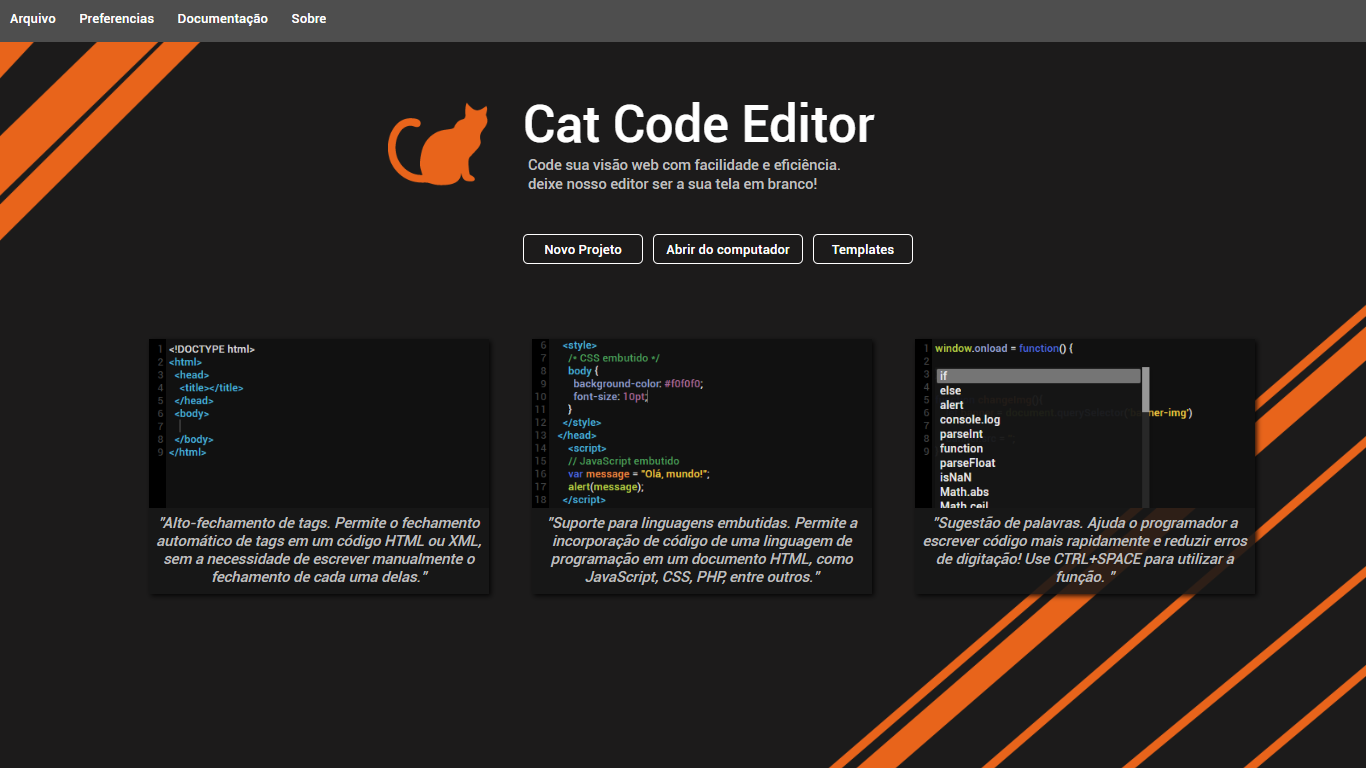
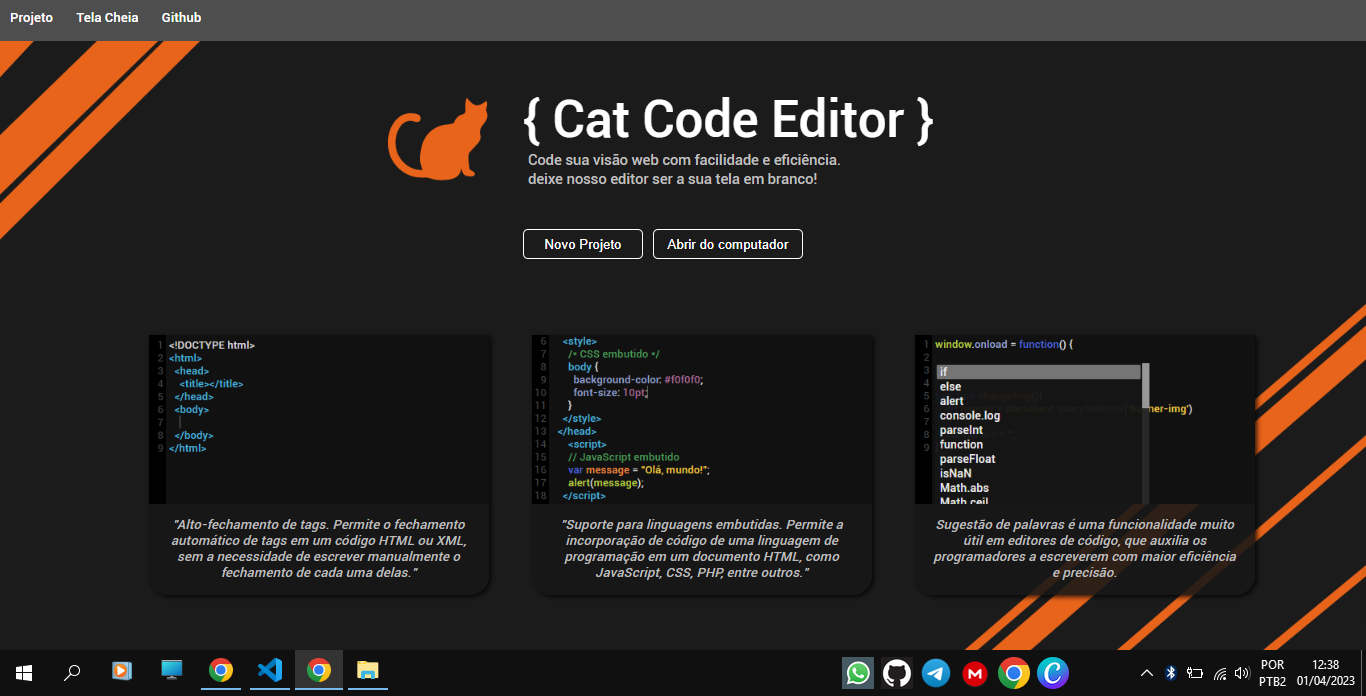
#correção

diff --git a/src/www/editor-web.html b/src/www/editor-web.html
@@ -45,7 +45,7 @@
                 <li><input type="button" value="Apagar Tudo" onclick="apagarTudo()"></li>
             </ul>
         </li>
-        <li><a href="#">Vizualisar</a>
+        <li><a href="#">Visualisar</a>
             <ul>
                 <li><input type="button" value="Visualização Web" onclick="previewWindow()"></li>
                 <li><input type="button" value="Visualização Mobile" onclick="previewIframe()"></li>
@@ -55,26 +55,19 @@
         <li>
             <a onclick="fullscreen()">Tela Cheia</a>
         </li>
-        <li><a href="#">Sobre</a>
-            <ul>
-                <li><a href="#">Versão</a></li>
-                <li><a href="#">Documentação</a></li>
-                <li><a href="#">Criadores</a></li>
-                <li><a href="#">Github</a></li>
-            </ul>
+        <li>
+            <a href="https://github.com/leonelmiguins/cat-code-editor" target="_blank">Github</a>
         </li>
     </ul>
 </nav>
-    <!-- Campo do editor de código-->
-    <div class="conteiner-editor">
-      <!-- <div class="conteiner-arquivos"></div> -->
-      <textarea  id="editor"></textarea> 
-      <iframe id="iframe-prev"></iframe>
-    </div>
-    
+<!-- Campo do editor de código-->
+<div class="conteiner-editor">
+    <!-- <div class="conteiner-arquivos"></div> -->
+    <textarea  id="editor"></textarea> 
+    <iframe id="iframe-prev"></iframe>
+</div> 
     <!-- input file onde o usuario ira escolher so seu sistema um arquivo nos formatos definidos -->
     <input style="display: none;" type="file" id="inputFile" accept=".js, .json, .html, .css">
-    <!-- Scripts -->
     <script src="../js/editor.js"></script>   
 
 <!-- Toast de menssagens do sistema-->
@@ -92,8 +85,8 @@
     <input type="button" value="Copiar Tudo" onclick="copiarTudo()">
     <input type="button" value="Salvar" onclick="salvar()">
     <input type="button" value="Atualizar Visualização" onclick="previewIframe()">
-    <input type="button" value="salvar">
 </div>
+
 <script src="../js/script.js"></script>
 
 </body>

diff --git a/index.html b/index.html
@@ -8,9 +8,6 @@
     <link rel="shortcut icon" href="src/images/gato.png"/>
     <title>Cat Code Editor - Inicio</title>
 </head>
-<header>
-
-</header>
 <body>
 <!-- Barra de navegação -->
 <nav>
@@ -25,13 +22,8 @@
     <li>
         <a onclick="fullscreen()">Tela Cheia</a>
     </li>
-    <li><a href="#">Sobre</a>
-         <ul>
-            <li><input type="button" value="Versão" onclick="version()"></li>
-            <li><a href="#">Documentação</a>
-            <li><a href="#">Criadores</a></li>
-            <li><a href="#">Github</a></li>
-         </ul>
+    <li>
+        <a href="https://github.com/leonelmiguins/cat-code-editor" target="_blank">Github</a>
     </li>
 </ul>
 </nav>
@@ -63,7 +55,7 @@
     <figure>
          <img src="src/images/blank.png" alt="Imagem 1">
         <figcaption>"Alto-fechamento de tags. Permite o fechamento automático de tags em um código HTML ou XML, sem a necessidade de escrever manualmente o fechamento de cada uma delas."</figcaption>
-     </figure>
+    </figure>
     <figure>
         <img src="src/images/blank-2.png" alt="Imagem 2">
         <figcaption>"Suporte para linguagens embutidas. Permite a incorporação de código de uma linguagem de programação em um documento HTML, como JavaScript, CSS, PHP, entre outros."</figcaption>
@@ -87,16 +79,12 @@
 <!-- Mouse Menu -->
 <div id="menu-mouse">
     <ul>
-      <li><a href="#">Opção 1</a></li>
-      <li><a href="#">Opção 2</a></li>
-      <li><a href="#">Opção 3</a></li>
+        <input type="button" value="Novo Projeto" onclick="copiarTudo()">
+        <input type="button" value="abrir do Computador" onclick="salvar()">
+        <input type="button" value="Tela Cheia" onclick="previewIframe()">
     </ul>
 </div>
 
-<!-- Caixa de menssagem -->
-<div id="box-msg">
-
-</div>
 <script src="src/js/script.js"></script>
 
 </body>

diff --git a/src/css/style.css b/src/css/style.css
@@ -1,13 +1,8 @@
-@import url('https://fonts.googleapis.com/css2?family=Poppins:wght@300;400;500;600;700&display=swap');
-
 @font-face {
     font-family: Roboto;
     src: url('../fonts/Roboto-Medium.ttf');
 }
-@font-face {
-    font-family: Chopisc;
-    src: url('../fonts/Chopsic.otf');
-}
+
 @font-face {
     font-family: JetBrains;
     src: url('../fonts/JetBrainsMonoNL-Medium.ttf');
@@ -40,7 +35,7 @@ body{
 /* barra de navegação */
 
 nav {
-    height: 35px;
+    height: 31px;
     font-family: Roboto;
     display: flex;
 }
@@ -90,7 +85,7 @@ nav ul li a{
 
 nav ul li a:hover{
     background-color: rgb(129, 128, 128);
-    height: 22px;
+    height: 21px;
     cursor: pointer;
 }
 
@@ -178,6 +173,7 @@ nav ul ul li a{
 }
 
 /*  SEÇÃO DE CÓDIGO CRIADA POR MANUEL CHAVES */
+
 main {
     margin-top: 20px;
     text-align: center;
@@ -420,21 +416,5 @@ section.sec2{
     border-radius: 2px;
 }
 
-/* box menssage */
-
-#box-msg {
-    display: none;
-    position: absolute;
-    top: 35%;
-    left: 50%;
-    transform: translate(-50%, -50%);
-    background-color: #0c0c0cfd;
-    color: #f4f4f4;
-    width: 200px;
-    height: 200px;
-    border-radius: 5px;
-    padding: 25px;
-}
-  
   
 

diff --git a/src/js/script.js b/src/js/script.js
@@ -100,21 +100,5 @@ function systemMsg (msg) {
 }
 
 
-function version () {
-  fetch("https://raw.githubusercontent.com/leonelmiguins/cat-code-editor/main/package.json")
-  .then(response => response.json())
-  .then(data => {
-
-    const boxMsg = document.getElementById('box-msg');
-    boxMsg.style.display = 'grid';
-    boxMsg.innerHTML = 
-    `CAT CODE EDITOR<br><br>
-    Versão: ${data.version}<br>
-    Criador: ${data.authors}<br>
-    Colaboradores: ${data.collaborators}<br>
-    Github: <a href='https://github.com/leonelmiguins' target='blank'>Link para o projeto</a>`;
-  })
-
-}
 
 

diff --git a/README.md b/README.md
@@ -1,12 +1,24 @@
-![Cat Code Editor](src/images/print.png)
+![Cat Code Editor](src/images/print2.png)
 
 ## Sobre
 
-* O Cat Code Editor é um editor de código intuitivo projetado para pequenos desenvolvimentos web. Ele oferece um conjunto de recursos para edição de código em linguagens de programação como HTML, CSS e JavaScript.
-* Com uma interface fácil de usar, o Cat Code Editor é ideal para desenvolvedores de todos os níveis de habilidade. Ele possui uma variedade de recursos para agilizar o processo de desenvolvimento web, incluindo destaque de sintaxe, sugestões de código, formatação automática, autocompletar e muito mais.
-* Com sua combinação de recursos poderosos e interface amigável, o Cat Code Editor é a escolha ideal para desenvolvedores web que buscam aumentar sua produtividade e eficiência na criação de aplicativos web modernos e dinâmicos.
+<p>O Cat Code Editor é um editor de código intuitivo projetado para pequenos desenvolvimentos web. Ele oferece um conjunto de recursos para edição de código em linguagens de programação como HTML, CSS e JavaScript.</p>
+<p>Com uma interface fácil de usar, o Cat Code Editor é ideal para desenvolvedores de todos os níveis de habilidade. Ele possui uma variedade de recursos para agilizar o processo de desenvolvimento web, incluindo destaque de sintaxe, sugestões de código, formatação automática, autocompletar e muito mais.
+* Com sua combinação de recursos poderosos e interface amigável, o Cat Code Editor é a escolha ideal para desenvolvedores web que buscam aumentar sua produtividade e eficiência na criação de aplicativos web modernos e dinâmicos.</p>
 
-## Documentação
+## Funcionalidades
+
+* <b>Autocomplete:</b> A função de autocomplete é uma ferramenta que sugere automaticamente o código que pode ser usado para completar uma palavra ou linha de código enquanto você digita no editor. Ele pode economizar muito tempo, especialmente para aqueles que estão trabalhando em projetos grandes ou complexos.
+
+* <b>Realce de sintaxe:</b> A função de realce de sintaxe é usada para colorir o texto no editor de código de acordo com a sintaxe de programação usada. Isso torna mais fácil identificar diferentes elementos do código e entender sua função.
+
+* <b>Sugestão de palavras:</b> A função de sugestão de palavras é um recurso que ajuda os usuários a encontrar a palavra certa enquanto digitam. Ele sugere palavras com base nas letras digitadas, o que economiza tempo e minimiza erros de digitação.
+
+* <b>Autofechamento de tags:</b> A função de autofechamento de tags é usada em linguagens de marcação, como HTML e XML, para fechar automaticamente as tags enquanto você digita. Isso pode ser útil quando se trabalha com tags complexas que possuem muitos atributos. O recurso evita erros de sintaxe e economiza tempo, pois você não precisa digitar a tag de fechamento manualmente.
+
+* <b>Visualização mobile:</b> A função de visualização mobile em um editor de código permite que os desenvolvedores visualizem seus projetos como seriam exibidos em dispositivos móveis. Isso ajuda a garantir que o layout e o design do projeto sejam responsivos e se adaptem adequadamente a diferentes tamanhos de tela.
+
+* <b>Visualização web:</b> A função de visualização web em um editor de código permite que os desenvolvedores visualizem seus projetos em um navegador da web. Isso ajuda a garantir que o layout, o design e a funcionalidade do projeto funcionem corretamente em diferentes navegadores e dispositivos. A visualização web também ajuda a identificar problemas de compatibilidade do navegador
 
 
 ## Colaboradores
